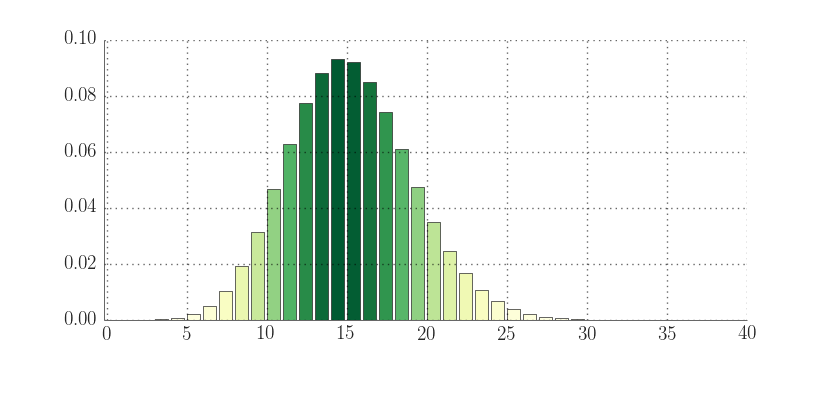
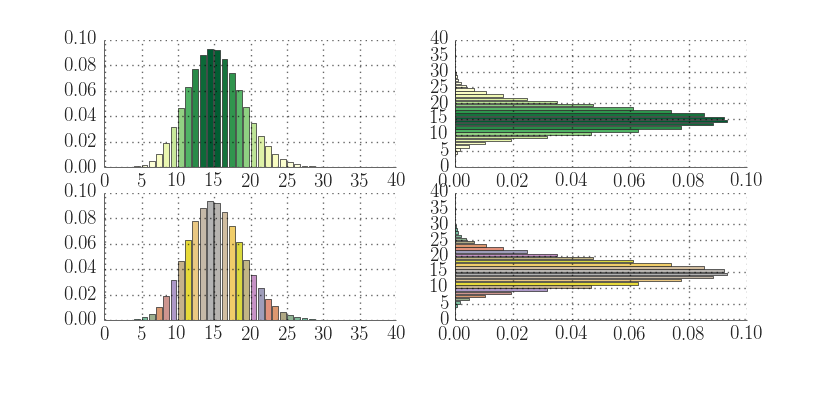
Add colormapsupport for barh and update the doc for own colormaps

diff --git a/prettyplotlib/_barh.py b/prettyplotlib/_barh.py
@@ -1,7 +1,7 @@
 __author__ = 'olga'
 
 from prettyplotlib.utils import maybe_get_ax, remove_chartjunk
-from prettyplotlib.colors import set2, almost_black
+from prettyplotlib.colors import set2, almost_black, getcolors
 import numpy as np
 import collections
 
@@ -53,6 +53,12 @@ def barh(*args, **kwargs):
     # If no grid specified, don't draw one.
     grid = kwargs.pop('grid', None)
 
+    cmap = kwargs.pop('cmap', False)
+    if cmap:
+        kwargs['edgecolor'] = almost_black
+        if not stacked:
+            kwargs['color'] = getcolors(cmap, width, 0)
+
     # Check if stacked and plot data accordingly
     if stacked:
         num_stacks, num_data = width.shape
@@ -61,7 +67,10 @@ def barh(*args, **kwargs):
             lst = list(args)
             lst[1] = width[i]
             args = tuple(lst)
-            kwargs['color'] = set2[i]
+            if cmap:
+                kwargs['color'] = getcolors(cmap, width[i], i)
+            else:
+                kwargs['color'] = set2[i]
             kwargs['left'] = left
             rectangles = ax.barh(*args, **kwargs)
             left += width[i]

diff --git a/docs/examples_with_code.md b/docs/examples_with_code.md
@@ -370,23 +370,35 @@ fig.savefig('bar_prettyplotlib_grid_annotated_labeled.png')
 
 ![Bar plot with white grid, x-axis labeled and each bar annotated](https://raw.github.com/olgabot/prettyplotlib/master/ipython_notebooks/bar_prettyplotlib_grid_annotated_labeled.png)
 
-## `bar` with colormap
+## `bar` and `barh` with colormap
 
-If you want to color the bars according to thier height, you should use `cmap=True`:
+If you want to color the bars according to thier height, you should either use `cmap=True` or you specify the colormap on your own `cmap=your_cmap`:
 
 ```python
 import prettyplotlib as ppl
-from pylab import savefig
+from pylab import savefig, show, figure, subplot
 from numpy import array, e
 from scipy import optimize
 from scipy.misc import factorial 
 # prettyplotlib imports
+import brewer2mpl
 
 func    = lambda p, x: p[0]*pow(p[1],x)*pow(e,-p[1])/factorial(x)
 N       = range(40)
 
-ppl.bar(N, func(array([0.9,14.8]),N),  cmap=True)
+Set2 = brewer2mpl.get_map('Set2', 'qualitative', 8).mpl_colormap
 
+figure(1)
+subplot(2,2,1)
+ppl.bar(N, func(array([0.9,14.8]),N),  cmap=True)
+subplot(2,2,2)
+ppl.barh(N, func(array([0.9,14.8]),N),  cmap=True)
+subplot(2,2,3)
+ppl.bar(N, func(array([0.9,14.8]),N),  cmap=Set2)
+subplot(2,2,4)
+ppl.barh(N, func(array([0.9,14.8]),N),  cmap=Set2)
+
+#show()
 savefig('bar_prettyplotlib_colormap.png')
 ```
 
